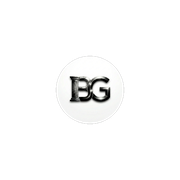
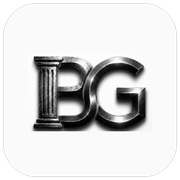
aa

diff --git a/index.html b/index.html
@@ -32,11 +32,11 @@
     <meta name="theme-color" content="#050505">
     <link rel="canonical" href="https://bgstudio.com.tr/">
     <link rel="image_src" href="https://bgstudio.com.tr/coastal-residence-01.webp">
-    <link rel="icon" href="https://bgstudio.com.tr/favicon.ico" sizes="any">
-    <link rel="icon" type="image/png" sizes="48x48" href="https://bgstudio.com.tr/favicon-48x48.png">
-    <link rel="icon" type="image/png" sizes="96x96" href="https://bgstudio.com.tr/favicon-96x96.png">
-    <link rel="icon" type="image/png" sizes="192x192" href="https://bgstudio.com.tr/favicon-192x192.png">
-    <link rel="apple-touch-icon" sizes="180x180" href="https://bgstudio.com.tr/apple-touch-icon.png">
+    <link rel="icon" href="/favicon.ico" sizes="any">
+    <link rel="icon" type="image/png" sizes="32x32" href="/favicon-32x32.png">
+    <link rel="icon" type="image/png" sizes="16x16" href="/favicon-16x16.png">
+    <link rel="apple-touch-icon" sizes="180x180" href="/apple-touch-icon.png">
+    <link rel="manifest" href="/site.webmanifest">
     <link rel="preload" as="video" href="head-city-mobile.mp4" type="video/mp4" media="(max-width: 768px)" fetchpriority="high">
     <link rel="preload" as="video" href="head-city-desktop.mp4" type="video/mp4" media="(min-width: 769px)" fetchpriority="high">
 